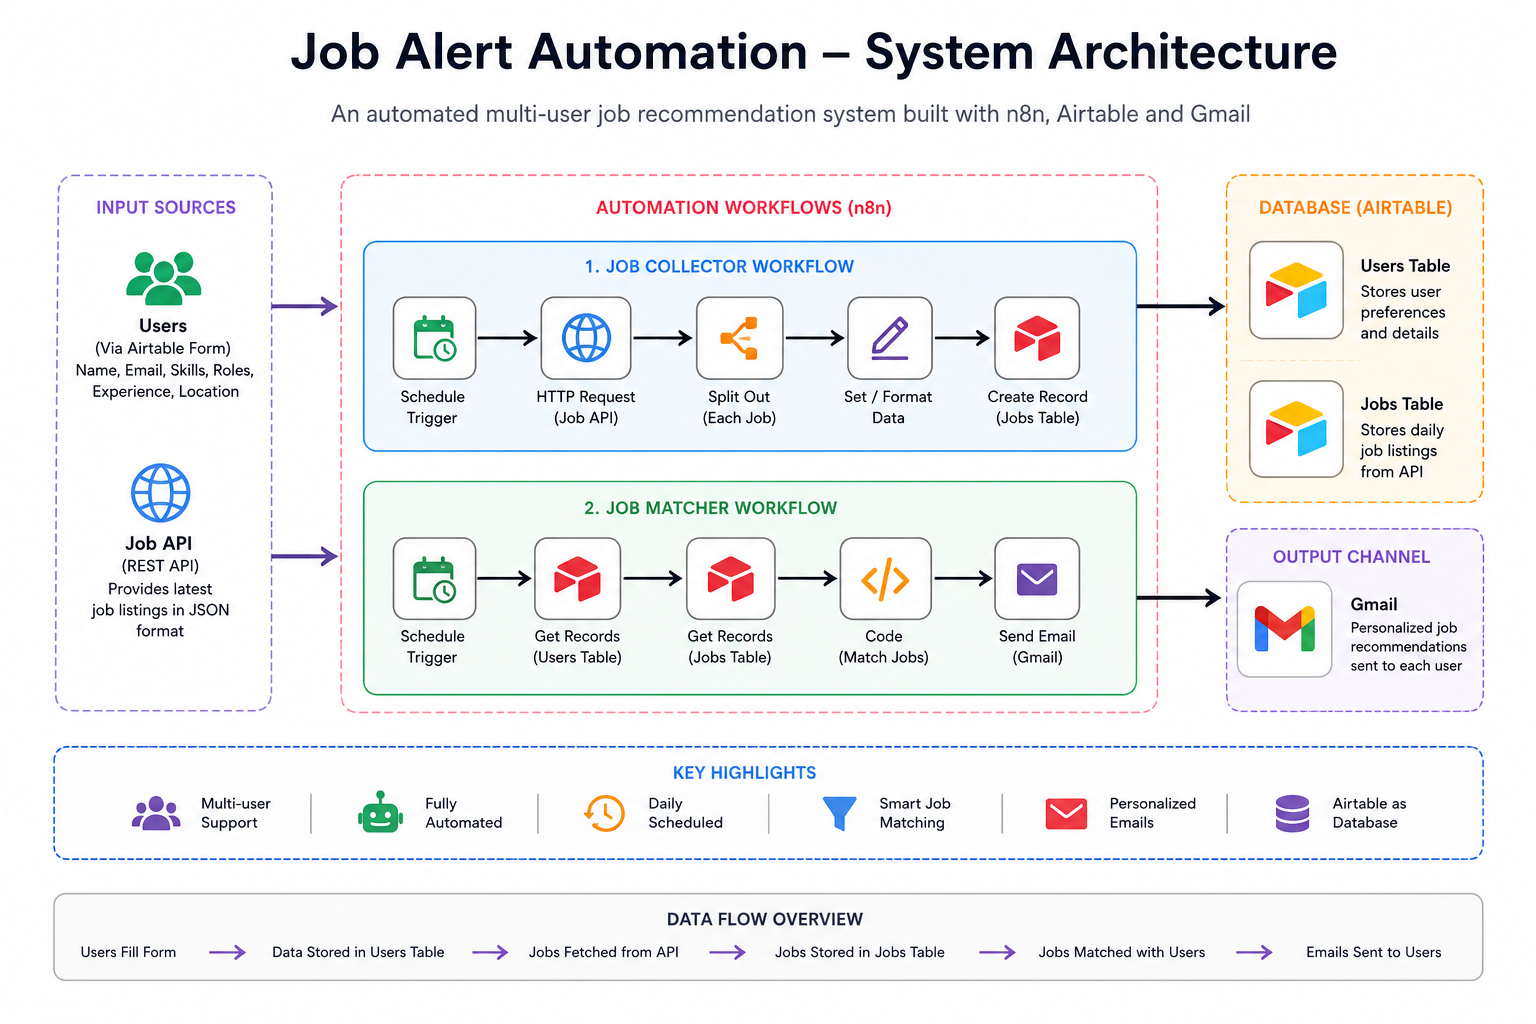
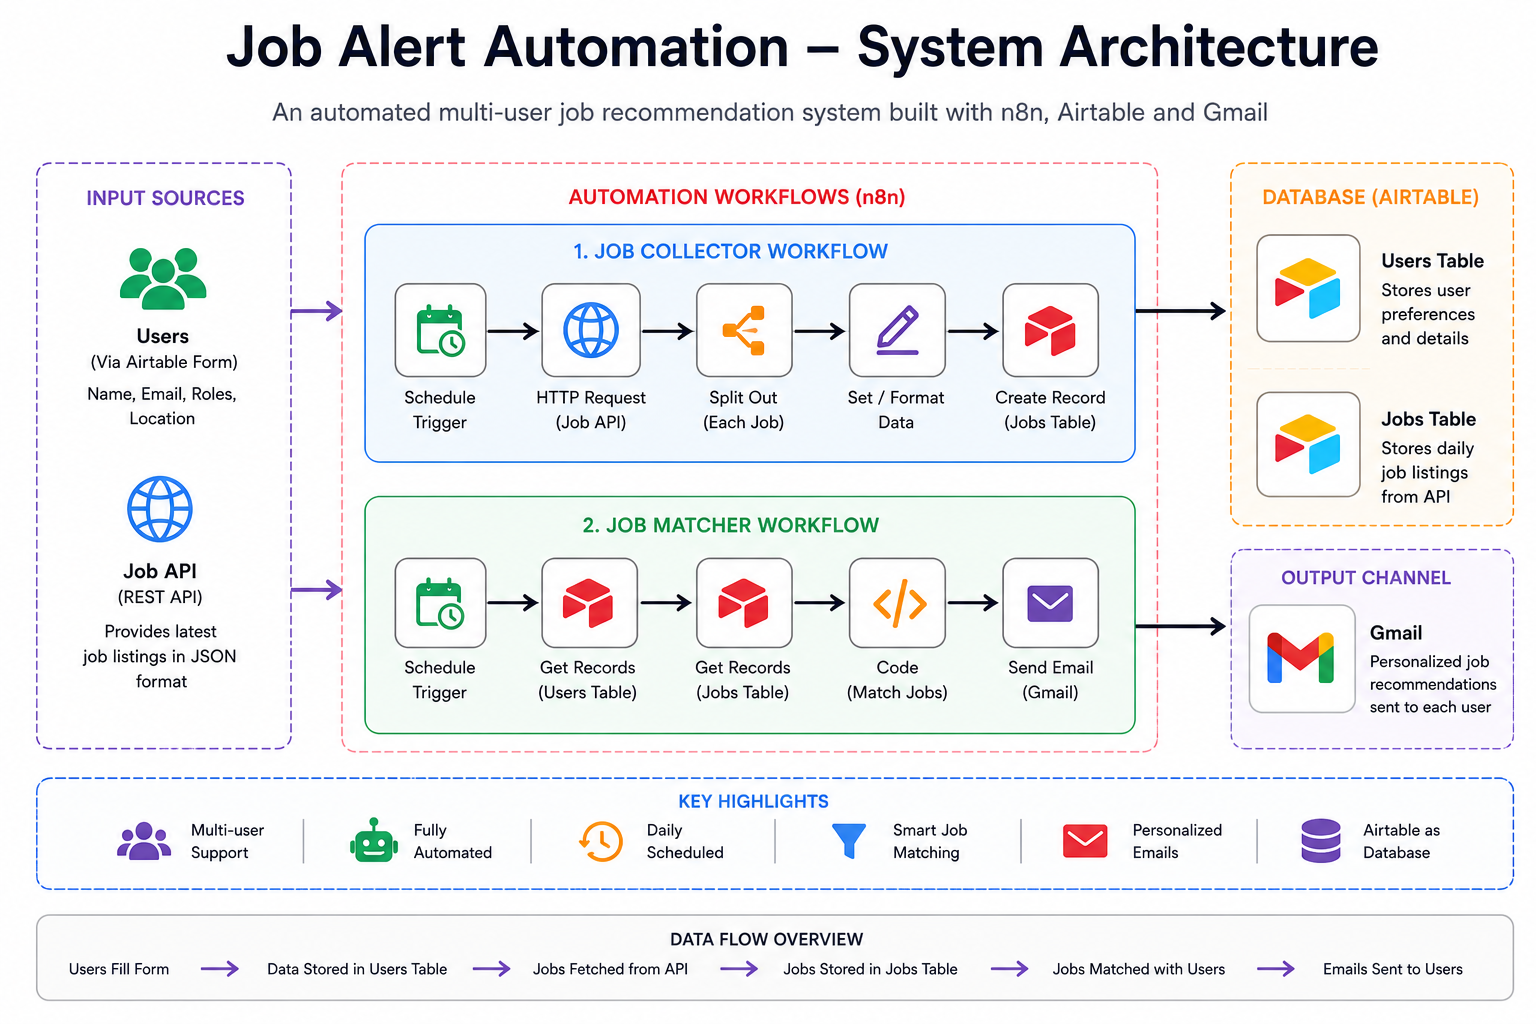
update

diff --git a/Job Alert Automation/README.md b/Job Alert Automation/README.md
@@ -1,0 +1,213 @@
+# 🚀 Job Alert Automation
+
+An automated multi-user job recommendation system built using **n8n**, **Airtable**, **JavaScript**, and **Gmail**.
+
+---
+
+## 📖 Overview
+
+Job Alert Automation is an end-to-end workflow automation project that automatically collects job listings from a public Job API, stores them in Airtable, matches them with user preferences, and sends personalized HTML email recommendations.
+
+The project demonstrates workflow automation, API integration, database operations, JavaScript-based filtering, and automated email generation using n8n.
+
+---
+
+# 🎯 Problem Statement
+
+Searching multiple job portals every day is repetitive and time-consuming.
+
+This project automates the process by:
+
+* Collecting the latest job listings
+* Storing them in a database
+* Matching jobs with user preferences
+* Delivering personalized job recommendations via email
+
+---
+
+# ✨ Features
+
+* Multi-user support
+* Automated job collection from a Job API
+* Airtable database integration
+* Role-based job matching
+* Personalized HTML email generation
+* Scheduled workflow execution
+* Modular workflow architecture
+
+---
+
+# 🏗️ System Architecture
+
+The project is divided into two independent workflows.
+
+## Workflow 1 — Job Collector
+
+Responsible for collecting jobs from the Job API and storing them in Airtable.
+
+```text
+Schedule Trigger
+        │
+HTTP Request (Job API)
+        │
+Split Job Records
+        │
+Format Data
+        │
+Create Record (Jobs Table)
+```
+
+---
+
+## Workflow 2 — Job Matcher
+
+Responsible for matching jobs with registered users and sending personalized emails.
+
+```text
+Schedule Trigger
+        │
+Fetch Users
+        │
+Fetch Jobs
+        │
+JavaScript Matching Logic
+        │
+Generate HTML Email
+        │
+Send Email (Gmail)
+```
+
+---
+
+# 🛠️ Tech Stack
+
+| Category            | Technology |
+| ------------------- | ---------- |
+| Workflow Automation | n8n        |
+| Database            | Airtable   |
+| Programming         | JavaScript |
+| Email Service       | Gmail      |
+| API Integration     | REST API   |
+| Data Format         | JSON       |
+
+---
+
+# 📷 Project Screenshots
+
+### Architecture
+
+* System Architecture Diagram
+
+### User Registration
+
+* Airtable Form
+
+### Database
+
+* Users Table
+* Jobs Table
+
+### Workflows
+
+* Job Collector Workflow
+* Job Matcher Workflow
+
+### Output
+
+* Sample HTML Email
+
+---
+
+# 📧 Email Output
+
+Each registered user receives a personalized HTML email containing:
+
+* Matching Job Title
+* Company Name
+* Apply Link
+
+---
+
+# 🧠 Challenges Faced
+
+* Designing a scalable workflow architecture
+* Passing data between multiple n8n nodes
+* Matching jobs with multiple users
+* Generating personalized HTML emails
+* Understanding workflow execution and data flow
+* Debugging node expressions and Airtable integrations
+
+---
+
+# 📈 Future Improvements
+
+* Automatic cleanup of outdated job listings
+* Better duplicate job handling
+* Location-based filtering
+* Integration with additional Job APIs
+* Resume-based AI job matching
+* Telegram / WhatsApp notifications
+* Analytics dashboard
+
+---
+
+# 📚 What I Learned
+
+Through this project I learned:
+
+* Workflow automation using n8n
+* REST API integration
+* Airtable CRUD operations
+* JavaScript inside automation workflows
+* JSON data processing
+* Workflow architecture and scheduling
+* HTML email generation
+* Debugging automation pipelines
+
+---
+
+# 🚀 How to Run
+
+1. Clone this repository.
+2. Import the n8n workflow JSON files.
+3. Create the required Airtable base with:
+
+   * Users Table
+   * Jobs Table
+4. Configure Airtable credentials.
+5. Configure Gmail credentials.
+6. Execute the Job Collector workflow.
+7. Execute the Job Matcher workflow.
+
+---
+
+# 📁 Project Structure
+
+```text
+Job-Alert-Automation/
+│
+├── README.md
+├── LICENSE
+├── .gitignore
+│
+├── workflows/
+│   ├── job-collector.json
+│   └── job-matcher.json
+│
+└── screenshots/
+    ├── architecture.png
+    ├── airtable-form.png
+    ├── users-table.png
+    ├── jobs-table.png
+    ├── workflow-job-collector.png
+    ├── workflow-job-matcher.png
+    └── sample-email.png
+```
+
+---
+
+# 👨💻 Author
+
+**Avinash**
+
+Built as a portfolio project to demonstrate workflow automation, API integration, database management, and personalized email automation using n8n.